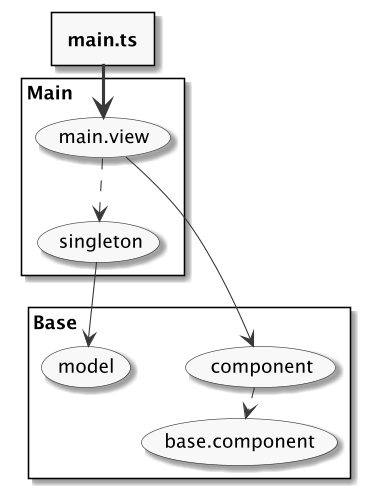
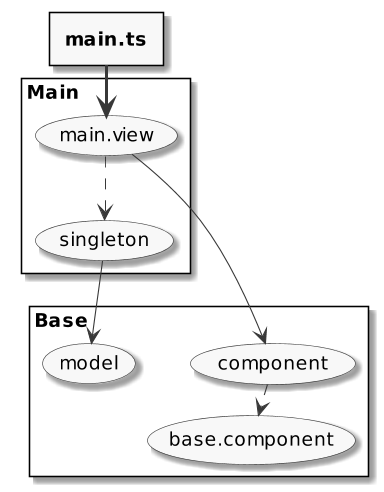
rebuilding site Tue 27 Aug 2019 09:53:18 AM CST

diff --git a/post/2019-08-26-change-to-hugo-and-adoc/index.html b/post/2019-08-26-change-to-hugo-and-adoc/index.html
@@ -511,7 +511,7 @@ Adoc is better than markdown.
     <div class="article-style" itemprop="articleBody">
       <p>I change my personal website from gastby/markdown to hugo/adoc.</p>
 <p>Adoc is better than markdown.</p>
-<div class="image-block"><img src="/img-autogen/diag-a8b3262db7e66c87060478144daf471c.png" alt="diag a8b3262db7e66c87060478144daf471c" width="365" height="493"></div>
+<div class="image-block"><img src="/img-autogen/diag-a8b3262db7e66c87060478144daf471c.png" alt="diag a8b3262db7e66c87060478144daf471c" width="384" height="492"></div>
 
     </div>
 

diff --git a/index.html b/index.html
@@ -447,13 +447,15 @@
 
 
 
-<div class="margin-auto">
+<div class="row">
+  <div class="col-xs-12 col-md-4 section-heading">
 
-  <div class="center-text">
-    <h1 class="mt-0">Projects</h1>
+    <h1>Projects</h1>
     
+
   </div>
-  <div>
+  <div class="col-xs-12 col-md-8">
+
 
 
     
